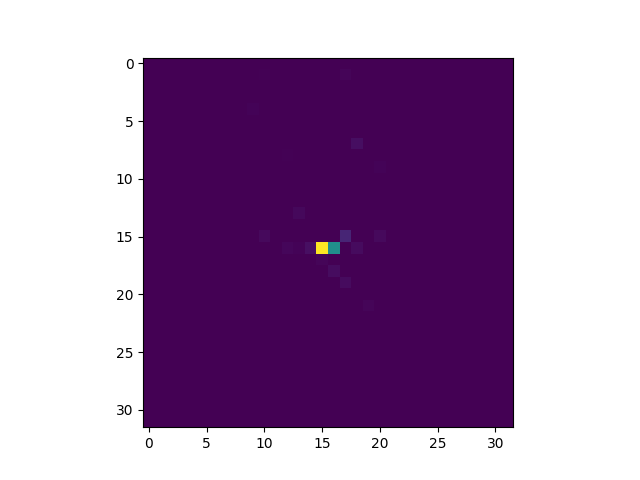
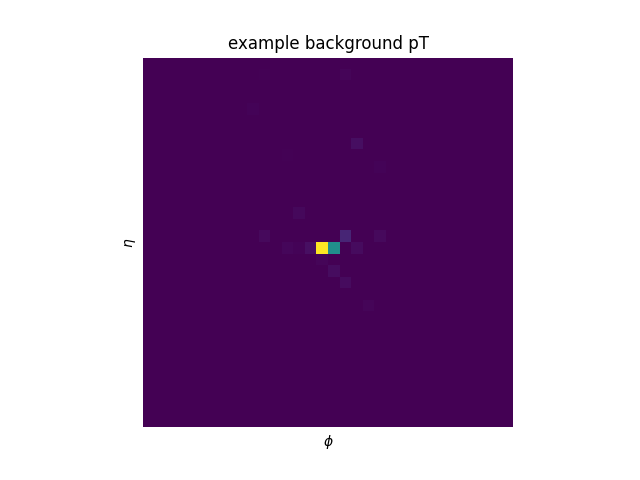
small changes

diff --git a/preprocess.py b/preprocess.py
@@ -112,10 +112,10 @@ if "__main__":
 
     main(data_path, save_path, data_type, file_type)
 
+
+# example call: 
+# python preprocess.py --data_path '/isilon/data/users/jpfeife2/AutoEncoder-Anomaly-Detection/data/QCD/300to500/nano_mc2018_12_a677915bd61e6c9ff968b87c36658d9d_0.root' --save_path '/isilon/data/users/jpfeife2/AutoEncoder-Anomaly-Detection/processed_data' --data_type 'signal' --file_type '.root'
     
 # background ='/isilon/data/users/jpfeife2/AutoEncoder-Anomaly-Detection/data/QCD/300to500/nano_mc2018_12_a677915bd61e6c9ff968b87c36658d9d_0.root'
 # signal = '/isilon/data/users/jpfeife2/AutoEncoder-Anomaly-Detection/data/WJET/400to600/nano_mc2018_1-1.root'
 # main(signal, '/isilon/data/users/jpfeife2/AutoEncoder-Anomaly-Detection/processed_data', 'signal', '.root')
-
-# example call: 
-# python preprocess.py --data_path '/isilon/data/users/jpfeife2/AutoEncoder-Anomaly-Detection/data/QCD/300to500/nano_mc2018_12_a677915bd61e6c9ff968b87c36658d9d_0.root' --save_path '/isilon/data/users/jpfeife2/AutoEncoder-Anomaly-Detection/processed_data' --data_type 'signal' --file_type '.root'

diff --git a/average_histogram.py b/average_histogram.py
@@ -1,8 +1,7 @@
 import pandas as pd
 import numpy as np 
 import matplotlib.pyplot as plt
-from histogram import plot
-from statistics import mean
+from histogram import make_histogram, plot_histogram
 
 background_file = '/isilon/data/users/jpfeife2/AutoEncoder-Anomaly-Detection/processed_data/background.pkl'
 signal_file = '/isilon/data/users/jpfeife2/AutoEncoder-Anomaly-Detection/processed_data/signal.pkl'
@@ -12,10 +11,9 @@ signal = pd.read_pickle(signal_file)
 def plot_avg(data, filetype):
     hist_array = []
     for index, row in data.iterrows(): 
-        hist_array.append(plot(data['eta'][index], data['phi'][index], data['pT'][index]))
+        hist_array.append(make_histogram(data['eta'][index], data['phi'][index], data['pT'][index]))
     avg = np.mean(hist_array, axis=0)
-    plt.imshow(avg)
-    plt.savefig("plots/avg_"+ filetype + ".png")
+    plot_histogram(avg, "plots/avg_"+ filetype + ".png", "average_" + filetype)
 
 plot_avg(background, "background")
 plot_avg(signal, "signal")

diff --git a/histogram.py b/histogram.py
@@ -1,7 +1,8 @@
 from fast_histogram import histogram2d
 import numpy as np 
+import matplotlib.pyplot as plt 
 
-def plot(x, y, cc):
+def make_histogram(eta, phi, cc):
     eta_min, eta_max = -0.8, 0.8
     phi_min, phi_max = -0.8, 0.8
     incr = 0.05
@@ -11,4 +12,17 @@ def plot(x, y, cc):
     phi_bins = np.arange(phi_min, phi_max, incr)
     image_shape = (eta_bins.shape[0], phi_bins.shape[0])
 
-    return histogram2d(y, x, range=hist_range, bins=image_shape, weights=cc)
+    return histogram2d(phi, eta, range=hist_range, bins=image_shape, weights=cc)
+
+def plot_histogram(hist, save_file_name, title): 
+    fig, ax = plt.subplots() 
+    ax.imshow(hist)
+    ax.axes.get_xaxis().set_ticks([])
+    ax.axes.get_yaxis().set_ticks([])  
+    ax.set_xlabel('$\phi$')
+    ax.set_ylabel('$\eta$')
+    ax.set_title(title)  
+    plt.setp(ax.spines.values(), alpha = 0)
+    plt.savefig(save_file_name)
+      
+

diff --git a/example_histogram.py b/example_histogram.py
@@ -2,13 +2,12 @@ import pandas as pd
 import numpy as np 
 from fast_histogram import histogram2d
 import matplotlib.pyplot as plt
-from histogram import plot
+from histogram import make_histogram, plot_histogram
 
 background_file = '/isilon/data/users/jpfeife2/AutoEncoder-Anomaly-Detection/processed_data/background.pkl'
 signal_file = '/isilon/data/users/jpfeife2/AutoEncoder-Anomaly-Detection/processed_data/signal.pkl'
 background = pd.read_pickle(background_file)
 signal = pd.read_pickle(signal_file)
 
-hist = plot(background['eta'][1], background['phi'][1], background['pT'][1])
-plt.imshow(hist)
-plt.savefig("plots/ex_hist.png")
+hist = make_histogram(background['eta'][1], background['phi'][1], background['pT'][1])
+plot_histogram(hist, "plots/ex_hist.png", "example background pT")
